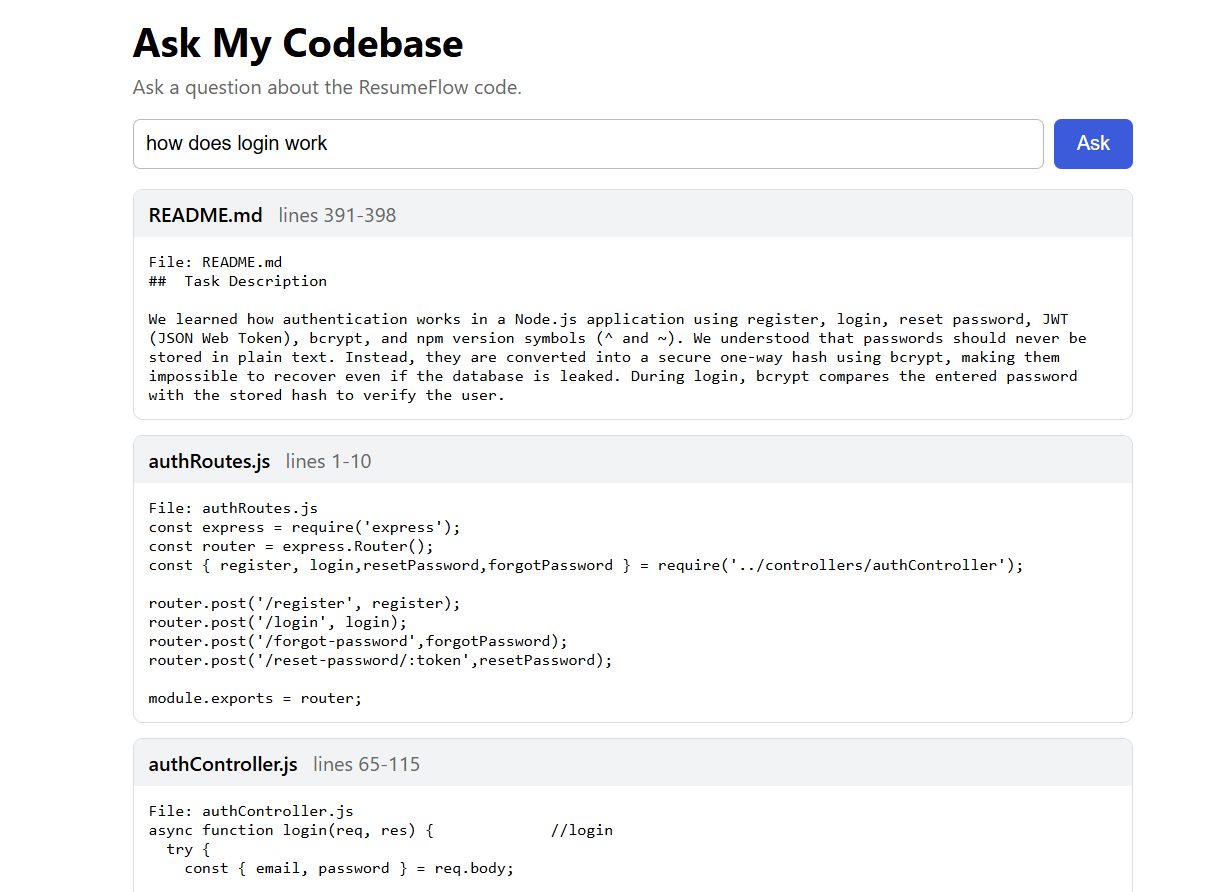
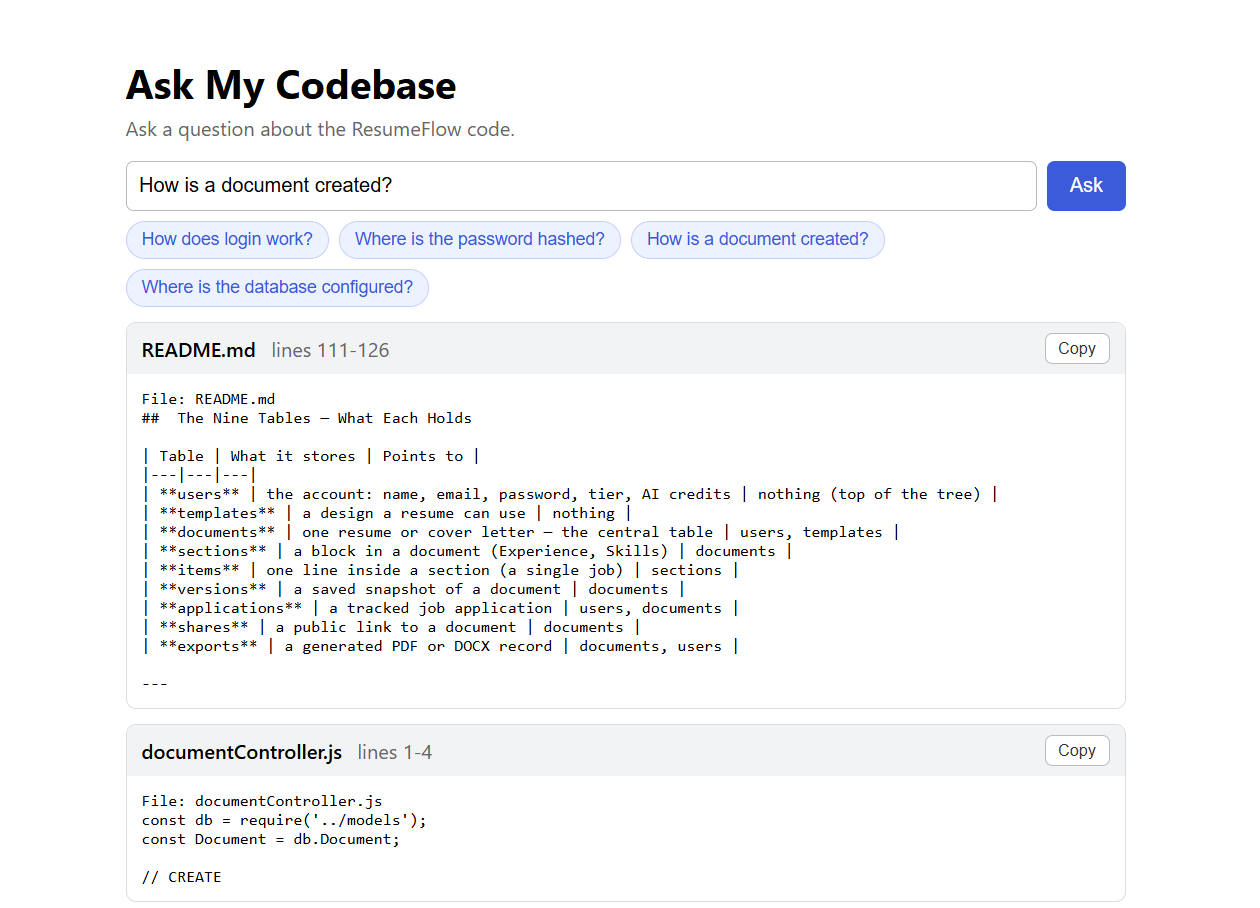
Add hybrid search,held-out tests,example questions and copy button

diff --git a/ask-ui/src/app/app.css b/ask-ui/src/app/app.css
@@ -1,12 +1,15 @@
 .wrap { max-width: 800px; margin: 0 auto; padding: 24px 16px; font-family: system-ui, sans-serif; }
 h1 { margin-bottom: 4px; }
 .sub { color: #666; margin-top: 0; }
-.row { display: flex; gap: 8px; margin: 16px 0; }
+.row { display: flex; gap: 8px; margin: 16px 0 8px; }
 input { flex: 1; padding: 10px; font-size: 16px; border: 1px solid #bbb; border-radius: 6px; }
 button { padding: 10px 18px; font-size: 16px; border: 0; border-radius: 6px; background: #3b5bdb; color: #fff; cursor: pointer; }
 button:disabled { opacity: 0.6; }
+.chips { display: flex; flex-wrap: wrap; gap: 8px; margin-bottom: 12px; }
+.chip { padding: 6px 12px; font-size: 14px; background: #edf2ff; color: #3b5bdb; border: 1px solid #c5d0fa; border-radius: 999px; }
 .error { color: #c92a2a; }
 .card { border: 1px solid #ddd; border-radius: 8px; margin: 12px 0; overflow: hidden; }
-.head { background: #f1f3f5; padding: 8px 12px; font-weight: 600; }
+.head { display: flex; justify-content: space-between; align-items: center; background: #f1f3f5; padding: 8px 12px; font-weight: 600; }
 .head span { font-weight: 400; color: #666; margin-left: 8px; }
+.copy { padding: 4px 10px; font-size: 13px; background: #fff; color: #333; border: 1px solid #bbb; }
 pre { margin: 0; padding: 12px; overflow-x: auto; font-size: 13px; white-space: pre-wrap; }

diff --git a/ask-ui/src/app/app.ts b/ask-ui/src/app/app.ts
@@ -1,13 +1,12 @@
-import { Component,signal } from "@angular/core";
-import {HttpClient } from '@angular/common/http';
+import { Component, signal } from '@angular/core';
+import { HttpClient } from '@angular/common/http';
 
-interface Source {file: string; start_line:number;end_line:number;text:string;}
+interface Source { file: string; start_line: number; end_line: number; text: string; }
 
 @Component({
-  selector:'app-root',
-  templateUrl:'./app.html',
-  styleUrl:'./app.css'
-
+  selector: 'app-root',
+  templateUrl: './app.html',
+  styleUrl: './app.css'
 })
 export class App {
   question = signal('');
@@ -15,8 +14,27 @@ export class App {
   loading = signal(false);
   error = signal('');
   searched = signal(false);
+  copied = signal(-1);
+  examples = [
+    'How does login work?',
+    'Where is the password hashed?',
+    'How is a document created?',
+    'Where is the database configured?',
+  ];
 
-  constructor(private http: HttpClient){}
+  constructor(private http: HttpClient) {}
+
+  useExample(q: string) {
+    this.question.set(q);
+    this.ask();
+  }
+
+  copy(text: string, i: number) {
+    navigator.clipboard.writeText(text);
+    this.copied.set(i);
+    setTimeout(() => this.copied.set(-1), 1500);
+  }
+
   ask() {
     const q = this.question().trim();
     if (!q) return;

diff --git a/ask-ui/src/app/app.html b/ask-ui/src/app/app.html
@@ -13,12 +13,23 @@
     </button>
   </div>
 
+  <div class="chips">
+    @for (e of examples; track e) {
+      <button class="chip" (click)="useExample(e)">{{ e }}</button>
+    }
+  </div>
+
   @if (error()) { <p class="error">{{ error() }}</p> }
   @if (searched() && sources().length === 0) { <p>No results found.</p> }
 
   @for (s of sources(); track $index) {
     <section class="card">
-      <div class="head">{{ s.file }} <span>lines {{ s.start_line }}-{{ s.end_line }}</span></div>
+      <div class="head">
+        <div>{{ s.file }} <span>lines {{ s.start_line }}-{{ s.end_line }}</span></div>
+        <button class="copy" (click)="copy(s.text, $index)">
+          {{ copied() === $index ? 'Copied' : 'Copy' }}
+        </button>
+      </div>
       <pre>{{ s.text }}</pre>
     </section>
   }
